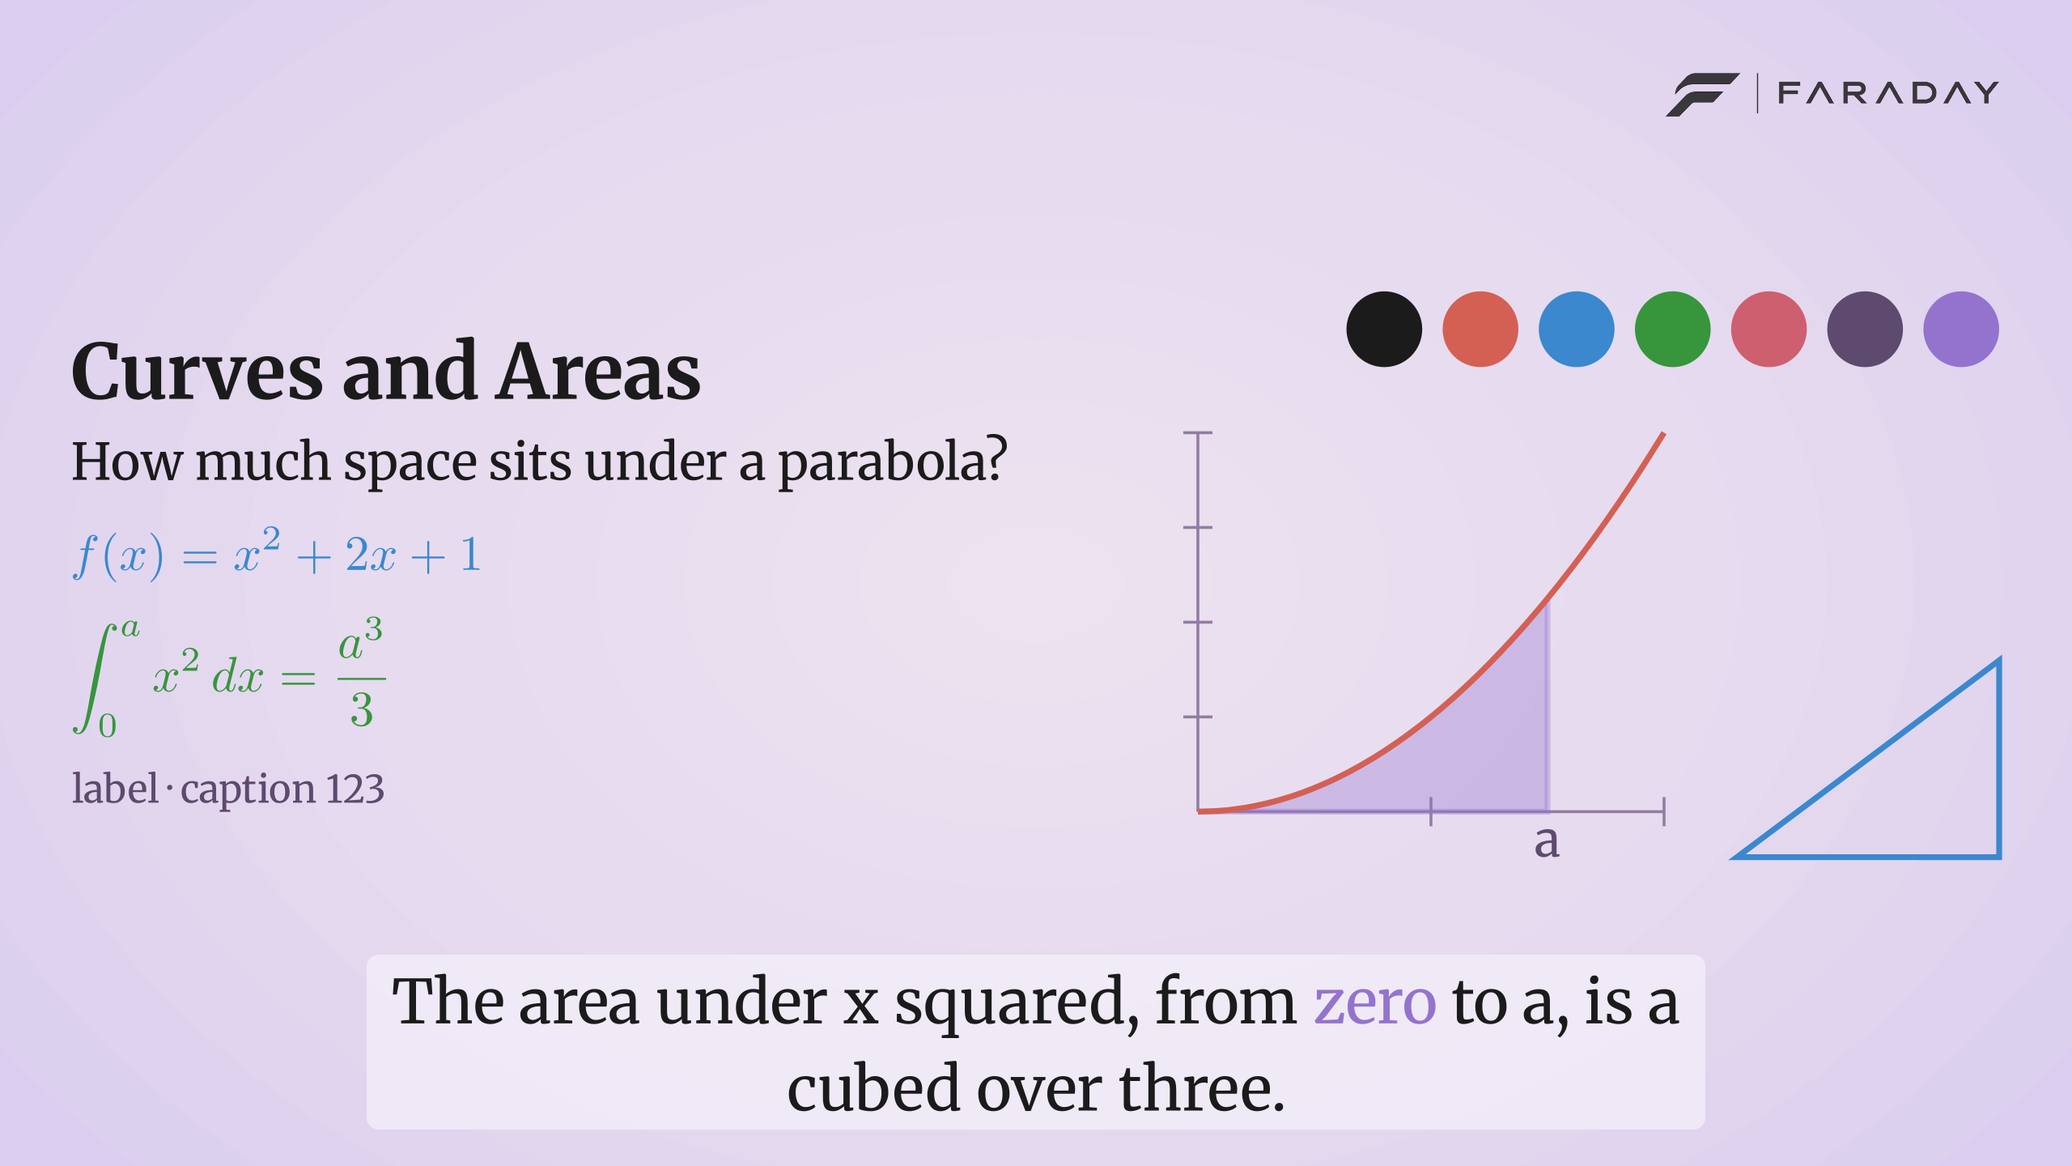
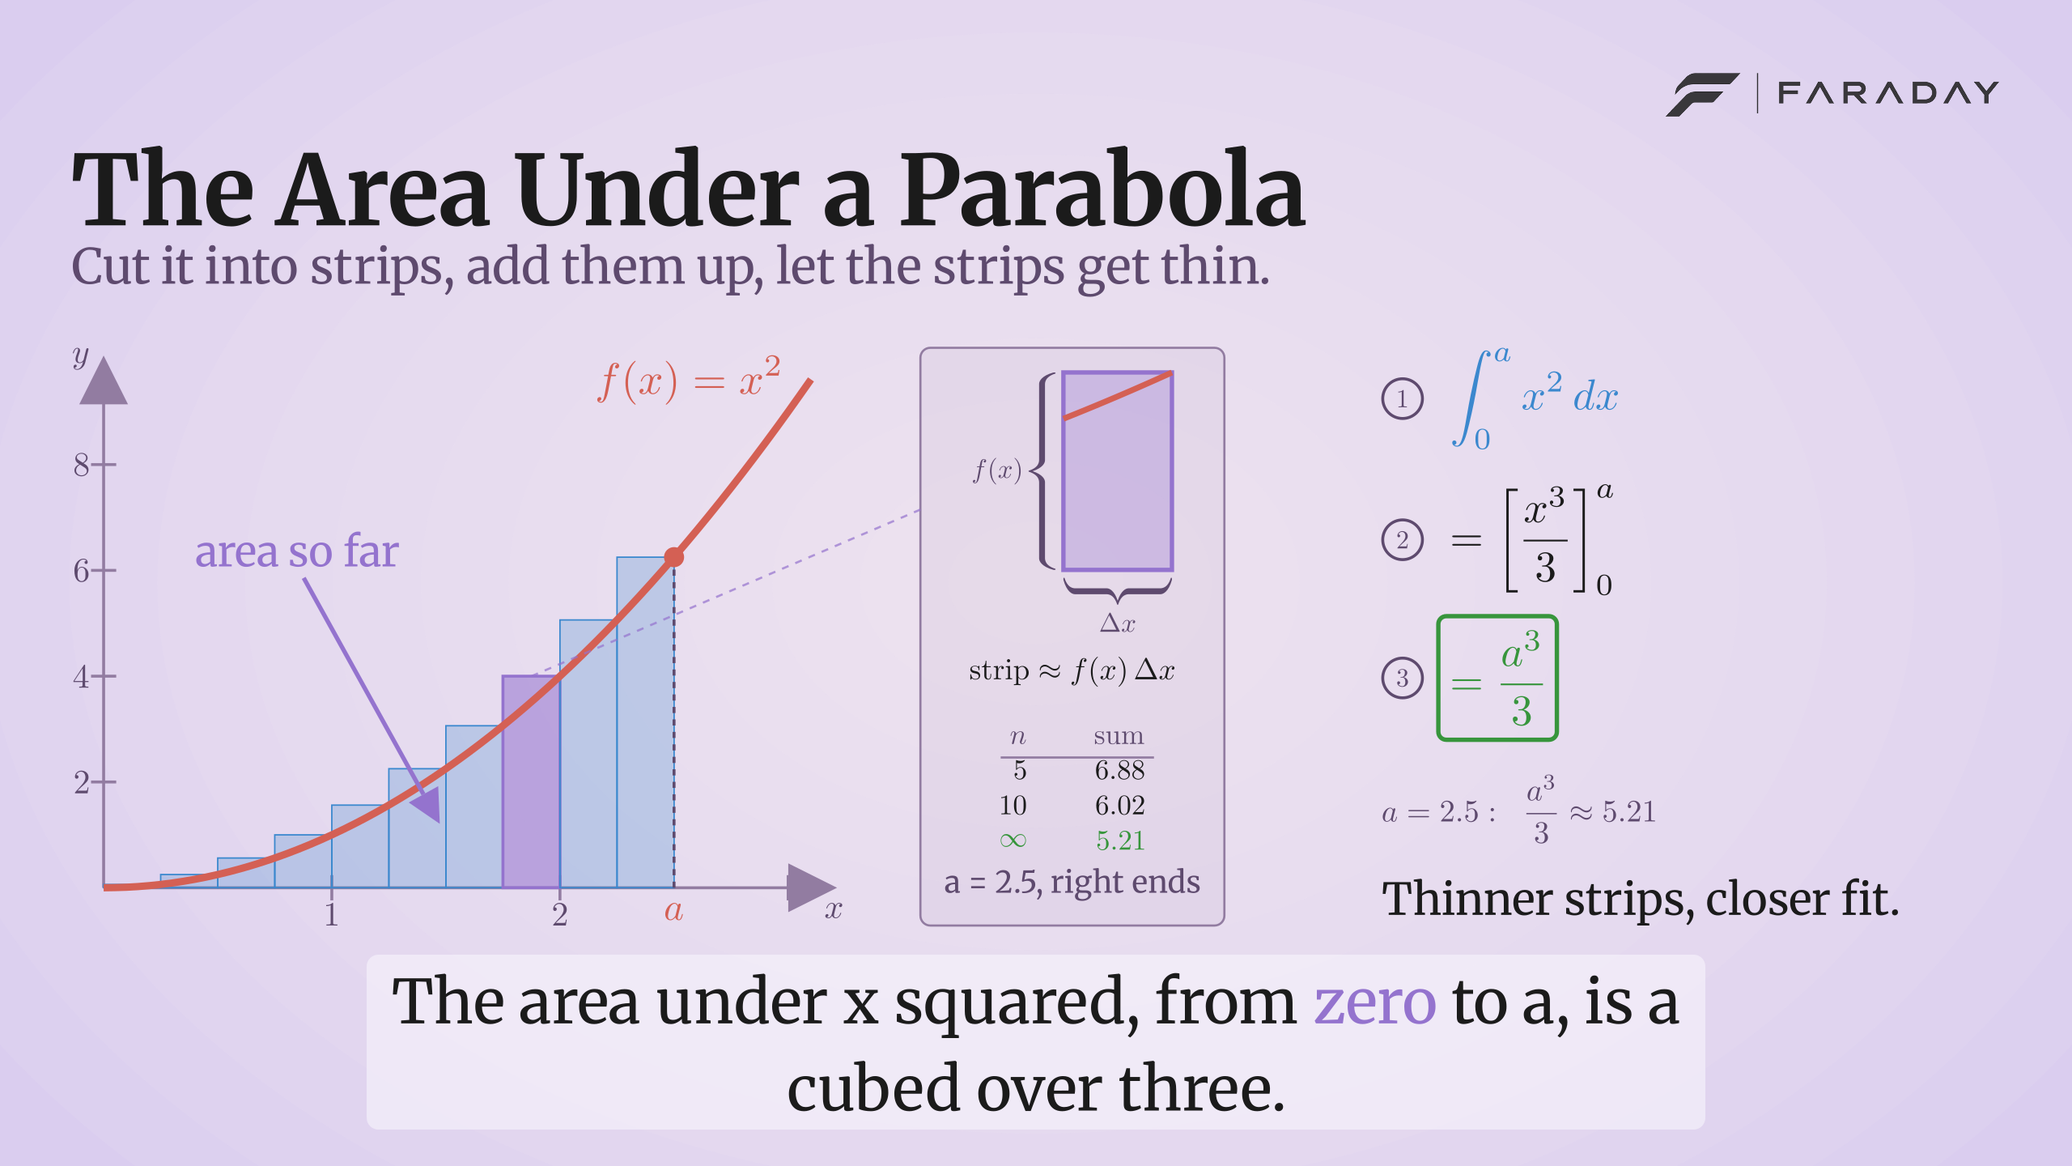
Faraday 0.35: video-frame previews, exact maths, sharper website
- Previews are one frame of a real lesson: parabola with labelled axes, right-endpoint strips, area and callout;
  a to-scale zoom on one strip (true x² over its range) with the sums closing in on the area; the integral in
  numbered steps with the result boxed; a on the x-axis; every number checked
- Preview cache keyed on the layout version, so option previews re-render with the new frame
- Bold text uses the loaded semi-bold; gallery cards use a 1280×720 copy, the full frame only full screen

diff --git a/frontend/src/pages/run/stages/look/useTemplateEditor.tsx b/frontend/src/pages/run/stages/look/useTemplateEditor.tsx
@@ -100,7 +100,7 @@ export function useTemplateEditor({ catalogue, choice, setChoice, soundExtras, n
           <RadioCards label={`${titleCase(view)} Starter Templates`} value={choice.template} layout="templates" onChange={choose}
             options={starters.map((template) => ({
               id: template.name, label: titleCase(template.name), srLabel: template.description,
-              image: { src: starterPreview(template.name), full: starterPreview(template.name), alt: `${titleCase(template.name)}: ${template.description}` },
+              image: { src: starterPreview(template.name, true), full: starterPreview(template.name), alt: `${titleCase(template.name)}: ${template.description}` },
             }))} />
           <div className="build-own">
             <span>Want to Make It Your Own?</span>

diff --git a/frontend/src/services/runs.ts b/frontend/src/services/runs.ts
@@ -3,5 +3,5 @@ export const runPath = (run: string, rest = "") => `/api/runs/${encodeURICompone
 export const mediaUrl = (run: string, path: string) => `/media/${encodeURIComponent(run)}/${path}`;
 export const runHash = (run: string, stage?: string, tab?: string) =>
   `#/runs/${encodeURIComponent(run)}${stage ? `/${stage}` : ""}${tab ? `/${tab}` : ""}`;
-/** A starter template, in its own mode, as one frame at 2560×1440. */
-export const starterPreview = (name: string) => `/previews/starters/${name}.webp`;
+/** A starter template, in its own mode, as one frame at 2560×1440; `card`: the 1280×720 copy for its gallery card. */
+export const starterPreview = (name: string, card = false) => `/previews/starters/${name}.webp${card ? "?card=true" : ""}`;

diff --git a/frontend/src/styles/base.css b/frontend/src/styles/base.css
@@ -10,6 +10,7 @@ body {
 #root { display: contents; }
 main { flex: 1; outline: none; }
 h1, h2, h3, h4 { margin: 0; font-weight: var(--fw-semibold); }
+strong, b, th { font-weight: var(--fw-semibold); }  /* Geist is loaded up to 600: a 700 would be a smeared fake bold */
 p { margin: 0; max-width: var(--measure); }
 ul, ol { margin: 0; }
 img, svg { display: block; }

diff --git a/backend/templates/look_renderer.py b/backend/templates/look_renderer.py
@@ -367,38 +367,105 @@ def luminance(hex_colour: str) -> float:
 
 # ── the preview: every part of the look in one frame ─────────────────────────────────────────────────────────
 CAPTION = "The area under x squared, from zero to a, is a cubed over three."
-ROLES = ("text", "focus", "given", "derived", "warning", "secondary", "accent")
 
 
-def swatch(look: dict) -> list[M.Mobject]:
+def swatch(look: dict, floor: float | None = None) -> list[M.Mobject]:
+    """One frame of a lesson, as a video shows it, in three columns under a title: a parabola with its strips, area,
+    labelled axes and a callout; a zoom on one strip (Δx by f(x)) and how the sum closes in on the area as the strips
+    thin; the integral worked in numbered steps with the result boxed. Every colour, font and size is the look's.
+    `floor`: the lowest y content may reach (above the subtitle line when it is shown)."""
     x_min, x_max, y_min, y_max = safe_area(look)
+    y_min = y_min if floor is None else max(y_min, floor)
     roles = look["roles"]
-    title = text(look, "Curves and Areas", "title")
-    body = text(look, "How much space sits under a parabola?", "body")
-    function = maths(look, r"f(x) = x^2 + 2x + 1", role="given")
-    integral = maths(look, r"\int_0^a x^2\,dx = \frac{a^3}{3}", role="derived")
-    label = text(look, "label · caption 123", "label", "secondary")
-    column = M.VGroup(title, body, function, integral, label).arrange(M.DOWN, aligned_edge=M.LEFT, buff=0.3)
-    chips = M.VGroup(
-        *[M.Circle(radius=0.26).set_stroke(width=0).set_fill(colour(roles[role]), 1) for role in ROLES]
-    ).arrange(M.RIGHT, buff=0.14)
-    axes = M.Axes(x_range=[0, 2, 1], y_range=[0, 4, 1], x_length=3.2, y_length=2.6, tips=False,
-                  axis_config={"color": colour(roles["outline"]), "stroke_width": 2})  # fmt: skip
-    curve = axes.plot(lambda x: x**2, x_range=[0, 2], color=colour(roles["focus"]), stroke_width=4)
-    area = axes.get_area(curve, x_range=[0, 1.5], color=colour(roles["accent"]), opacity=0.35)
-    marker = text(look, "a", "label", "secondary").next_to(axes.c2p(1.5, 0), M.DOWN, buff=0.12)
-    triangle = M.Polygon([0, 0, 0], [1.8, 0, 0], [1.8, 1.35, 0]).set_stroke(colour(roles["given"]), 4)
-    figures = M.VGroup(M.VGroup(axes, area, curve, marker), triangle).arrange(M.RIGHT, buff=0.5, aligned_edge=M.DOWN)
-    side = M.VGroup(chips, figures).arrange(M.DOWN, buff=0.45, aligned_edge=M.RIGHT)
-    for group in (column, side):
-        if group.width > (x_max - x_min) / 2 - 0.2:
-            group.scale_to_fit_width((x_max - x_min) / 2 - 0.2)
-        if group.height > y_max - y_min:
-            group.scale_to_fit_height(y_max - y_min)
-    middle = (y_max + y_min) / 2  # centred in the safe area, at the video's real sizes
-    column.move_to([x_min + column.width / 2, middle, 0])
-    side.move_to([x_max - side.width / 2, middle, 0])
-    return [column, side]
+    tint = lambda role: colour(roles[role])
+    small = lambda tex, role="secondary", size=0.62: maths(look, tex, role=role).scale(size)
+
+    title = text(look, "The Area Under a Parabola", "title")
+    subtitle_line = text(look, "Cut it into strips, add them up, let the strips get thin.", "label", "secondary")
+    heading = M.VGroup(title, subtitle_line).arrange(M.DOWN, aligned_edge=M.LEFT, buff=0.12)
+    heading.move_to([x_min + heading.width / 2, y_max - heading.height / 2, 0])
+    top = heading.get_bottom()[1] - 0.35
+
+    # column 1: the graph
+    axes = M.Axes(x_range=[0, 3.2, 1], y_range=[0, 10, 2], x_length=5.8, y_length=4.2, tips=True,
+                  axis_config={"color": tint("outline"), "stroke_width": 2, "tip_length": 0.18})  # fmt: skip
+    ticks = M.VGroup(
+        *[small(str(n)).next_to(axes.c2p(n, 0), M.DOWN, buff=0.12) for n in (1, 2)],
+        *[small(str(n)).next_to(axes.c2p(0, n), M.LEFT, buff=0.12) for n in (2, 4, 6, 8)],
+        small("x").next_to(axes.x_axis.get_end(), M.DOWN, buff=0.12),
+        small("y").next_to(axes.y_axis.get_end(), M.LEFT, buff=0.12),
+    )
+    curve = axes.plot(lambda x: x**2, x_range=[0, 3.1], color=tint("focus"), stroke_width=5)
+    strips = axes.get_riemann_rectangles(curve, x_range=[0, 2.5], dx=0.25, input_sample_type="right",
+                                         color=tint("given"), fill_opacity=0.25, stroke_width=1,
+                                         stroke_color=tint("given"))  # fmt: skip
+    chosen = strips[7]  # the strip the zoom shows
+    chosen.set_fill(tint("accent"), opacity=0.55).set_stroke(tint("accent"), 2)
+    point = M.Dot(axes.c2p(2.5, 6.25), radius=0.08, color=tint("focus"))
+    guide = M.DashedLine(axes.c2p(2.5, 0), axes.c2p(2.5, 6.25), color=tint("secondary"), stroke_width=2)
+    a_mark = small("a", "focus", 0.7).next_to(axes.c2p(2.5, 0), M.DOWN, buff=0.12)  # a is an x-value: on the axis
+    f_label = small("f(x) = x^2", "focus", 0.8).next_to(axes.c2p(3.1, 9.6), M.LEFT, buff=0.25)
+    callout = text(look, "area so far", "label", "accent").move_to(axes.c2p(0.85, 6.4))
+    pointer = M.Arrow(callout.get_bottom(), axes.c2p(1.5, 1.0), buff=0.1, color=tint("accent"), stroke_width=3,
+                      max_tip_length_to_length_ratio=0.12)  # fmt: skip
+    graph = M.VGroup(axes, ticks, strips, curve, guide, point, a_mark, f_label, callout, pointer)
+
+    # column 2: one strip up close, and the sums closing in
+    strip = M.Rectangle(width=1.1, height=2.0).set_stroke(tint("accent"), 3).set_fill(tint("accent"), 0.3)
+    left, bottom = strip.get_corner(M.DL)[:2]  # the zoom maps x 1.75..2 across the strip, y 0..f(2) = 4 up it
+    top_edge = M.ParametricFunction(
+        lambda x: [left + (x - 1.75) / 0.25 * strip.width, bottom + x**2 / 4 * strip.height, 0], t_range=[1.75, 2.0]
+    ).set_stroke(tint("focus"), 4)  # x² itself: enters at f(1.75)/f(2) ≈ 77 %, meets the top-right corner
+    width_brace = M.Brace(strip, M.DOWN, buff=0.08, color=tint("secondary"))
+    height_brace = M.Brace(strip, M.LEFT, buff=0.08, color=tint("secondary"))
+    zoom = M.VGroup(
+        strip, top_edge, width_brace, height_brace,
+        small(r"\Delta x").next_to(width_brace, M.DOWN, buff=0.08),
+        small("f(x)").next_to(height_brace, M.LEFT, buff=0.08),
+    )  # fmt: skip
+    product = small(r"\text{strip} \approx f(x)\,\Delta x", "text", 0.7).next_to(zoom, M.DOWN, buff=0.25)
+    rows = [("n", r"\text{sum}"), ("5", "6.88"), ("10", "6.02"), (r"\infty", "5.21")]
+    table = M.VGroup(
+        *[
+            small(cell, "derived" if r == 3 else ("secondary" if r == 0 else "text"), 0.66)
+            for r, row in enumerate(rows)
+            for cell in row
+        ]
+    ).arrange_in_grid(rows=len(rows), cols=2, buff=(0.7, 0.16), col_alignments="rr")
+    rule = M.Line(table[0].get_left() + [-0.1, -0.2, 0], table[1].get_right() + [0.1, -0.2, 0])
+    rule.set_stroke(tint("outline"), 1.5)
+    caption = text(look, "a = 2.5, right ends", "caption", "secondary").next_to(table, M.DOWN, buff=0.18)
+    inset = M.VGroup(M.VGroup(zoom, product), M.VGroup(table, rule, caption)).arrange(M.DOWN, buff=0.45)
+    frame = M.SurroundingRectangle(inset, buff=0.25, corner_radius=0.1, color=tint("outline"), stroke_width=1.5)
+    frame.set_fill(tint("surface"), 0.04)
+    middle = M.VGroup(frame, inset)
+
+    # column 3: the working, step by step
+    steps = M.VGroup()
+    for number, tex, role in ((1, r"\int_0^a x^2\,dx", "given"), (2, r"= \left[\frac{x^3}{3}\right]_0^a", "text"),
+                              (3, r"= \frac{a^3}{3}", "derived")):  # fmt: skip
+        badge = M.VGroup(M.Circle(radius=0.2).set_stroke(tint("secondary"), 2), small(str(number), "secondary", 0.6))
+        steps.add(M.VGroup(badge, maths(look, tex, role=role)).arrange(M.RIGHT, buff=0.3))
+    steps.arrange(M.DOWN, aligned_edge=M.LEFT, buff=0.35)
+    result = M.SurroundingRectangle(steps[2][1], buff=0.14, color=tint("derived"), stroke_width=3, corner_radius=0.08)
+    check = small(r"a = 2.5:\;\; \frac{a^3}{3} \approx 5.21", "secondary", 0.72)
+    note = text(look, "Thinner strips, closer fit.", "body", "text")
+    working = M.VGroup(M.VGroup(steps, result), check, note).arrange(M.DOWN, aligned_edge=M.LEFT, buff=0.35)
+
+    room_height, room_width, gap = top - y_min, x_max - x_min, 0.45
+    shares = (0.44, 0.24, 0.32)
+    for group, share in zip((graph, middle, working), shares):
+        width = share * room_width - gap
+        if group.width > width or group.height > room_height:  # at the video's sizes unless it cannot fit
+            group.scale(min(width / group.width, room_height / group.height))
+    centre = (top + y_min) / 2
+    left = x_min
+    for group, share in zip((graph, middle, working), shares):
+        group.move_to([left + group.width / 2, centre, 0])
+        left += share * room_width
+    link = M.DashedLine(chosen.get_top(), middle.get_left() + [0, middle.height * 0.22, 0], stroke_width=1.5)
+    link.set_stroke(tint("accent"), opacity=0.7)  # from the strip to its zoom
+    return [heading, graph, middle, working, link]
 
 
 class LookScene(M.Scene):
@@ -411,6 +478,8 @@ class LookScene(M.Scene):
         self.add(*backdrop(self.look))
         if (frame := border(self.look)) is not None:
             self.add(frame)
-        self.add(*swatch(self.look))
-        if self.look["subtitles"]["on"]:
-            self.add(subtitle(self.look, CAPTION.split(), 6))
+        line = subtitle(self.look, CAPTION.split(), 6) if self.look["subtitles"]["on"] else None
+        bottom_anchored = line is not None and self.look["subtitles"]["position"]["anchor"] == "bottom"
+        self.add(*swatch(self.look, line.get_top()[1] + 0.2 if bottom_anchored else None))
+        if line is not None:
+            self.add(line)

diff --git a/backend/templates/generate_preview.py b/backend/templates/generate_preview.py
@@ -37,6 +37,7 @@ log = logging.getLogger("generate_preview")
 PREVIEW_DIRECTORY = Path(__file__).resolve().parent / "previews"
 CUSTOM_DIRECTORY = Path.home() / ".cache" / "text-2-shorts" / "previews"
 SIZE = (854, 480)  # the option cards
+LAYOUT = "frame-3"  # the preview layout (look_renderer.swatch): part of every cache key, so a new layout re-renders
 FULL = (2560, 1440)  # full screen and the look's still: the delivery size, pixel for pixel
 SOUND_ONLY = {"voice", "speaking_speed", "narration_tone"}  # heard, not seen
 PREVIEWED = [name for name in video_settings.ELEMENTS if name not in SOUND_ONLY | {"frame", "theme_mode"}]
@@ -129,16 +130,32 @@ def starter_path(name: str) -> Path:
     return PREVIEW_DIRECTORY / "starters" / f"{name}.webp"
 
 
+CARD = (1280, 720)  # a gallery card: twice its on-screen width, so it is sharp on high-density screens
+
+
+def starter_card(name: str) -> Path:
+    """The starter's frame scaled down for its gallery card (made from the full frame once; shrinking 2560 px into a
+    400 px card in the browser makes thin lines shimmer and downloads what the card never shows)."""
+    from PIL import Image
+
+    card = PREVIEW_DIRECTORY / "starters" / f"{name}-card.webp"
+    if not card.exists() or card.stat().st_mtime < starter_path(name).stat().st_mtime:
+        Image.open(starter_path(name)).resize(CARD, Image.Resampling.LANCZOS).save(card, quality=92)
+    return card
+
+
 def still_path(template: dict) -> Path:
     """A whole look as one 2560×1440 frame (cached by what it draws)."""
-    key = hashlib.sha256((json.dumps(video_settings.drawing(template), sort_keys=True) + "|full").encode()).hexdigest()[
-        :20
-    ]
+    key = hashlib.sha256(
+        (json.dumps(video_settings.drawing(template), sort_keys=True) + "|full|" + LAYOUT).encode()
+    ).hexdigest()[:20]
     return CUSTOM_DIRECTORY / f"{key}.webp"
 
 
 def custom_path(template: dict) -> Path:
-    key = hashlib.sha256(json.dumps(video_settings.drawing(template), sort_keys=True).encode()).hexdigest()[:20]
+    key = hashlib.sha256((json.dumps(video_settings.drawing(template), sort_keys=True) + LAYOUT).encode()).hexdigest()[
+        :20
+    ]
     return CUSTOM_DIRECTORY / f"{key}.webp"
 
 
@@ -242,6 +259,8 @@ def main() -> None:
             if arguments.force or not starter_path(name).exists()
         ]
         render(jobs, FULL)
+        for name in names:
+            starter_card(name)
         print(f"rendered {len(jobs)} starter templates into {PREVIEW_DIRECTORY / 'starters'}")
     elif arguments.command == "warm":
         small, full = warm_jobs([arguments.only] if arguments.only else video_settings.starter_names())

diff --git a/tests/test_web.py b/tests/test_web.py
@@ -481,10 +481,16 @@ def test_a_reshuffle_is_shown_before_it_is_applied_and_the_same_seed_gives_the_s
 
 def test_starter_templates_and_options_have_full_size_pictures(web):
     _, client = web
+    import io
+
+    from PIL import Image
+
     signed_in(client)
     starter = client.get("/previews/starters/obsidian.webp")  # each starter in its own mode
     assert starter.status_code == 200 and starter.headers["content-type"] == "image/webp"
     assert client.get("/previews/starters/nope.webp").status_code == 404
+    card = client.get("/previews/starters/obsidian.webp?card=true")  # the gallery card's own, smaller copy
+    assert card.status_code == 200 and Image.open(io.BytesIO(card.content)).size == (1280, 720)
     assert client.get("/previews/custom/0123456789abcdef0123.webp").status_code == 404  # nothing to render it from
 
 
@@ -516,7 +522,11 @@ def test_options_are_drawn_in_the_users_own_look_with_exact_colours(web):
     pictures = answer.json()["pictures"]
     assert len(pictures) >= 3 and all(picture["url"] for picture in pictures)
     image = Image.open(io.BytesIO(client.get(pictures[0]["url"]).content)).convert("RGB")
-    assert image.getpixel((427, 300)) == (0x12, 0x34, 0x56)  # the user's own background, to the exact value (lossless)
+    assert image.getpixel((4, 240)) == (
+        0x12,
+        0x34,
+        0x56,
+    )  # the user's own background (outside the frame), exact (lossless)
     full = client.get(pictures[0]["full"])  # 2560×1440, rendered when first opened
     assert full.status_code == 200 and Image.open(io.BytesIO(full.content)).size == (2560, 1440)
     unknown = client.post("/api/look/options", json={"look": look, "element": "voice"}, headers=ORIGIN)

diff --git a/backend/app/web/app.py b/backend/app/web/app.py
@@ -421,9 +421,9 @@ def create_app(runs_directory: Path = RUNS_DIRECTORY) -> FastAPI:
         return LookStill(url=f"/previews/custom/{path.name}", note=generate_preview.font_note(template))
 
     @app.get("/previews/starters/{name}.webp", dependencies=[Depends(signed_in_account)])
-    def starter_preview(name: str) -> FileResponse:
+    def starter_preview(name: str, card: bool = False) -> FileResponse:
         """A starter template, in its own mode, as one frame at 2560×1440 (generate_preview.py starters), rendered now
-        if missing."""
+        if missing; `?card=true`: the 1280×720 copy its gallery card shows."""
         if name not in templates.template_names():
             raise ApiProblem(404, f"no starter template {name}")
         path = generate_preview.starter_path(name)
@@ -432,7 +432,7 @@ def create_app(runs_directory: Path = RUNS_DIRECTORY) -> FastAPI:
                 generate_preview.render_in_subprocess(["starters", "--only", name])
             except (RuntimeError, OSError, subprocess.TimeoutExpired) as failed:
                 raise ApiProblem(502, f"the starter could not be rendered: {failed}") from failed
-        return FileResponse(path, media_type="image/webp")
+        return FileResponse(generate_preview.starter_card(name) if card else path, media_type="image/webp")
 
     @app.post("/api/look/options", response_model=LookOptionPictures, dependencies=[Depends(signed_in_account)])
     def look_options(wanted: LookOptionsInput) -> LookOptionPictures:

diff --git a/CHANGELOG.md b/CHANGELOG.md
@@ -1,5 +1,14 @@
 # Changelog
 
+## 0.35.0 — 2026-11-25
+Previews that look like a frame of the video, and a sharper website.
+- **Previews** (starters and every Build Your Own option) are one frame of a real lesson: a titled parabola with
+  labelled axes, ten right-endpoint strips, the area and a callout; a to-scale zoom on one strip (Δx by f(x)) with
+  the sums closing in on the area (6.88, 6.02, 5.21); the integral in numbered steps with the result boxed. Every
+  number is exact; colours, fonts and sizes are the template's; the layout version is part of the preview cache key.
+- **Sharper website**: bold text uses the loaded semi-bold (no synthesised bold); gallery cards show a 1280×720 copy
+  of their preview (`?card=true`), the full 2560×1440 frame only full screen.
+
 ## 0.34.0 — 2026-11-25
 Eight video approaches: seven ways of teaching a topic and a custom one.
 - **Short (3–5 min)**: ELI5 (hook → analogy → explanation → demonstration → takeaway) · Visual Intuition (question →
